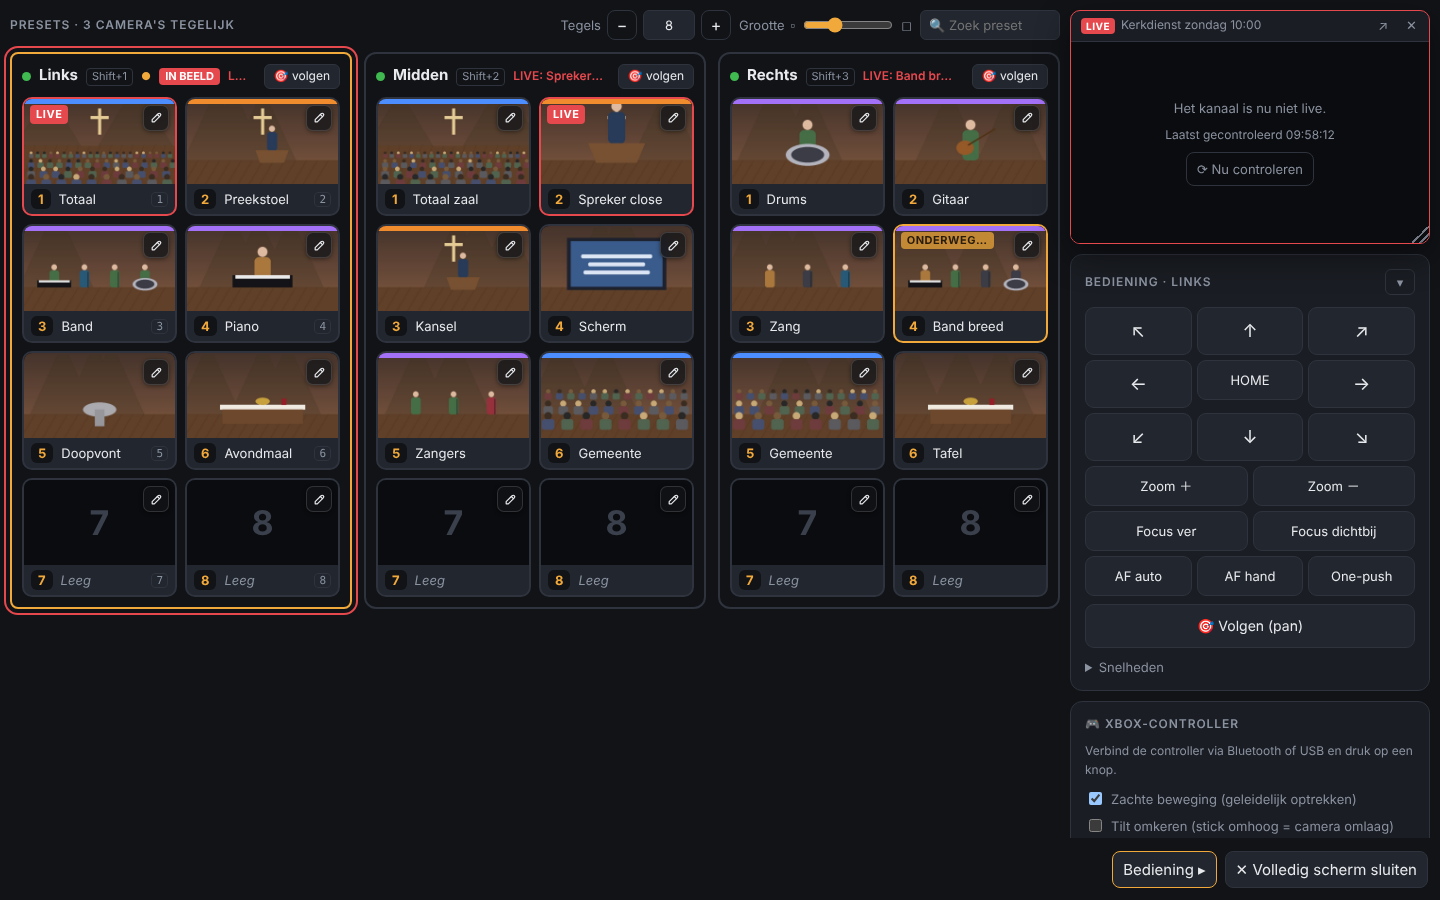
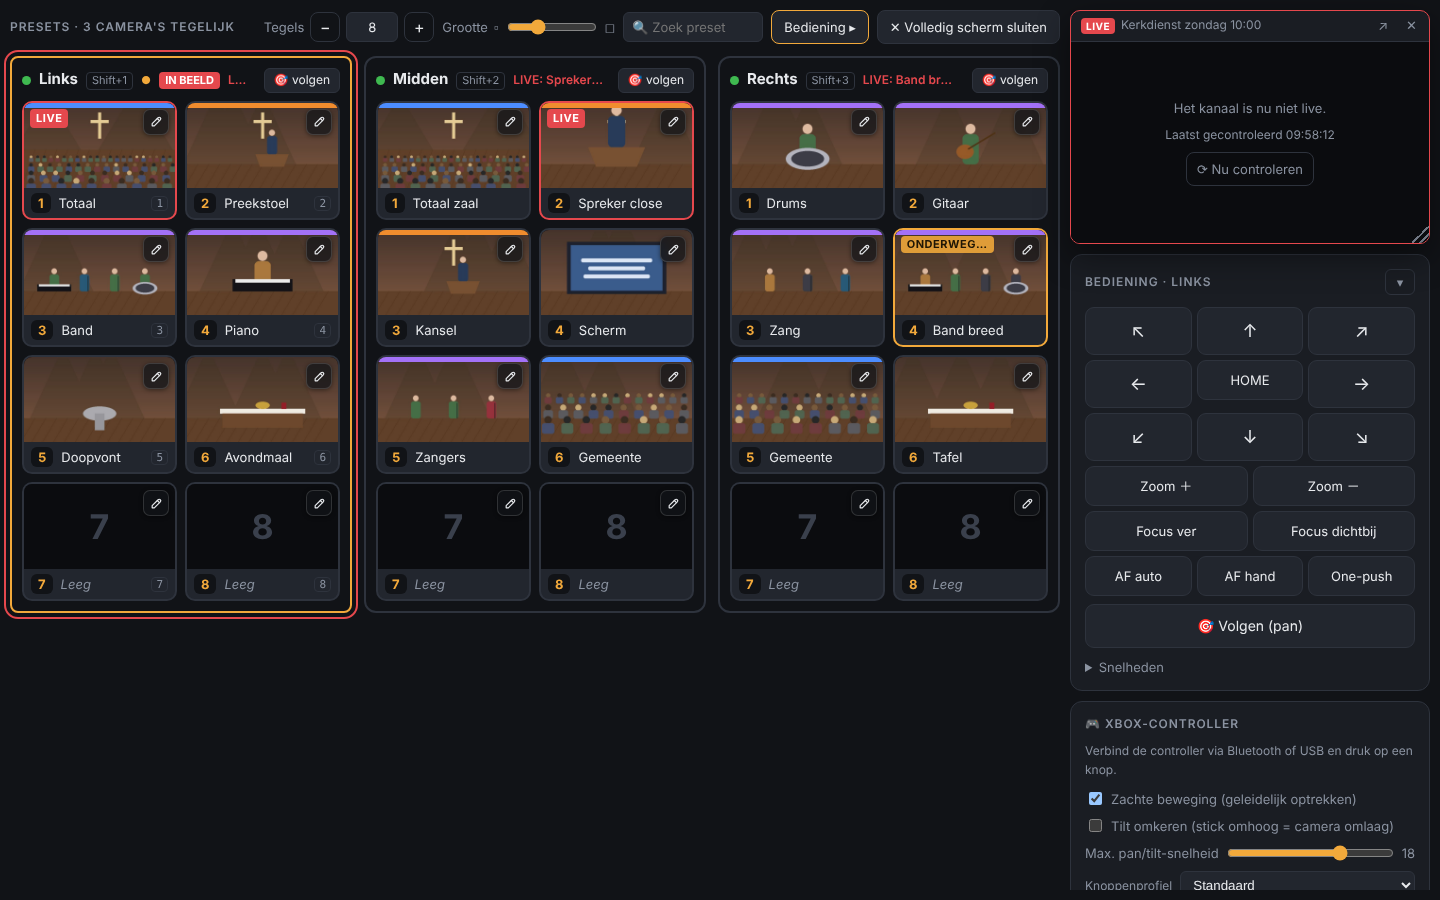
Volledig scherm: knoppen in de presetbalk i.p.v. zwevend rechtsonder
De knoppen ◂ Bediening en ✕ Volledig scherm sluiten stonden vast
rechtsonder (position: fixed) en vielen over een presettegel (bv.
preset 6). Ze staan nu rechtsboven in de presetbalk, in de flow, dus
nooit over een tegel. De uitgeklapte bediening loopt door tot onderaan.
Actieve Bediening-knop niet rood (rood = LIVE). README, CLAUDE.md,
screenshots en releasenotes v1.0.13 bijgewerkt.

Claude-Session: https://claude.ai/code/session_01UTh5KbM6Mer4r6g9EuNV9o

diff --git a/index.html b/index.html
@@ -361,13 +361,14 @@
   body.wall header, body.wall aside { display: none; }
   body.wall main { grid-template-columns: 1fr; padding: 10px; }
   body.wall #presetCard { border: 0; background: none; padding: 0; }
-  #wallBtns { display: none; position: fixed; bottom: 12px; right: 12px; z-index: 20; gap: 8px; }
+  /* knoppen staan in de presetbalk (niet zwevend rechtsonder), zodat ze nooit over een presettegel vallen */
+  #wallBtns { display: none; gap: 8px; }
   body.wall #wallBtns { display: flex; }
-  #wallBtns .icon { background: var(--panel2); color: var(--text); }
-  #btnWallSide.on { border-color: var(--accent); }
+  #wallBtns .chip { white-space: nowrap; }
+  #btnWallSide.on { background: var(--panel2); color: var(--text); border-color: var(--accent); }   /* niet rood: rood = LIVE */
   body.viewonly #btnWallSide { display: none; }
   /* volledig scherm + uitgeklapte bediening: zijbalk als kolom rechts, onder het YouTube-venster (als dat automatisch geplaatst is) */
-  body.wall.wallside aside { display: grid; position: fixed !important; right: 10px; top: var(--sidetop, 10px); bottom: 62px;
+  body.wall.wallside aside { display: grid; position: fixed !important; right: 10px; top: var(--sidetop, 10px); bottom: 10px;
     width: var(--sidew, 340px); grid-template-columns: minmax(0, 1fr) !important; align-content: start; gap: 10px;
     overflow-y: auto; overscroll-behavior: contain; z-index: 19; }
   body.wall.wallside main { padding-right: calc(var(--sidew, 340px) + 20px); }
@@ -585,6 +586,10 @@
         </div>
         <button class="chip" id="btnLoad" title="Presets die al in de camera's staan ophalen, met een foto per preset">📥 Laden van camera</button>
         <button class="chip" id="btnStore">＋ Preset opslaan</button>
+        <span id="wallBtns">
+          <button class="chip" id="btnWallSide" title="Camerabediening en Xbox-controller rechts tonen (toets B)">◂ Bediening</button>
+          <button class="chip" id="btnWallExit" title="Volledig scherm verlaten (Esc)">✕ Volledig scherm sluiten</button>
+        </span>
       </div>
     </div>
     <div class="hint" id="storeHint" hidden>Tik op een tegel om de huidige camerapositie daar op te slaan.</div>
@@ -873,10 +878,6 @@
   <div class="ytgrip" id="ytGrip" title="Sleep om de grootte te wijzigen"></div>
 </div>
 
-<div id="wallBtns">
-  <button class="icon" id="btnWallSide" title="Camerabediening en Xbox-controller rechts tonen (toets B)">◂ Bediening</button>
-  <button class="icon" id="btnWallExit" title="Volledig scherm verlaten (Esc)">✕ Volledig scherm sluiten</button>
-</div>
 <dialog id="dlgMidi">
   <h3>🎛 Videomixer (Roland V-1HD)</h3>
   <p class="small">Via een USB-kabel van de V-1HD naar deze computer ziet PTZ Control welke ingang op de mixer gekozen is (rode knop).

diff --git a/CLAUDE.md b/CLAUDE.md
@@ -60,7 +60,7 @@ Legenda: ✅ geverifieerd (getest of in officiële docs gevonden) · ⚠ aann
 - 🧑 **Alle sneltoetsen instelbaar** in **⌨ Sneltoetsen** (`#dlgKeys`, menu-item `btnKeys`), gedeeld via `cameras.json`: camera kiezen per camera (`cfg.cameras[i].hotkey`, standaard `Shift+Digit<n>`, n ≤ 9) en de bediening via **`cfg.keymap = {actie: combinatie}`** (alleen afwijkingen; `"none"` = uit). Acties en standaard in `KEY_ACTIONS`: `up/down/left/right` (pijltjes), `zoom_in/zoom_out` (Q/A), `focus_far/focus_near` (W/S), `stop` (Spatie), `home` (H), `track` (T), `wall` (F), `youtube` (Y), `songs` (L), `side` (B, bediening rechts op volledig scherm), `preset_1..9` (1–9). Combinatie = `KeyboardEvent.code` met `Ctrl+`/`Alt+`/`Shift+` (`comboOf`). Backspace = standaard, Delete = uit; dubbele toetsen worden rood gemarkeerd maar niet geblokkeerd. **Esc is vast**; Cmd-combinaties (`metaKey`) gaan altijd naar de browser. Vasthouden (bewegen/zoom/focus) loopt via `holding` (code → actie), zodat loslaten ook werkt als Shift al los is; Num 2/4/6/8 zonder NumLock tellen als pijltje (`combosOf`). De uitleg onder de zijbalk (`#keyHints`), het menu (Volledig scherm) en het YouTube-menu tonen de ingestelde toetsen (`renderKeyHints`). In *Alle camera's* kiest de camera-toets alleen de bediende camera (`selectCam`, origin `key`); in de enkele weergave wisselt hij van tabblad. ✅ Getest met Playwright (toets wijzigen, uitzetten, dubbel, opslaan, bediening met nieuwe toetsen).
 - 🧑 **Camerabediening inklapbaar** (klik op de titel; `localStorage.ctrlFolded`).
 - 🧑 **⛶ Volledig scherm** / toets F: `body.wall` verbergt kop en zijbalk, zet weergave op Alle camera's en vraagt browser-fullscreen. Esc / fullscreen verlaten → terug naar vorige weergave.
-- 🧑 **Bediening uitklappen op volledig scherm** (op verzoek, 10 nov 2026: "naast YouTube"): knop `#btnWallSide` (◂ Bediening / Bediening ▸) naast `#btnWallExit` in `#wallBtns` rechtsonder, toets **B** (`KEY_ACTIONS.side`, alleen op volledig scherm). `localStorage.wallSide` per apparaat (via `store`). `wallSideLayout()` zet `body.wallside`: de bestaande `aside` (camerabediening, Xbox-kaart, sneltoetsuitleg) wordt een vaste kolom rechts (`--sidew` = max(340, YouTube-breedte), 300 px – 40% scherm; `--sidetop`), `main` krijgt rechts ruimte. YouTube automatisch geplaatst + open → `ytPlace()` zet de speler bovenaan in die kolom (zelfde breedte) en de bediening eronder; *boven de camera's* (`ytWallTop`) → bediening onder de speler, rechts; zelf versleept → bediening vanaf boven (kan overlappen, eigen keuze). Niet in alleen-kijken. ✅ Getest (Playwright, 1440×900): knop en B, met/zonder YouTube, boven de camera's, geen overlap met tegels, onthouden na herladen, gewone zijbalk na sluiten.
+- 🧑 **Bediening uitklappen op volledig scherm** (op verzoek, 10 nov 2026: "naast YouTube"): knop `#btnWallSide` (◂ Bediening / Bediening ▸) naast `#btnWallExit` in `#wallBtns`. 🧑 `#wallBtns` staat **in de presetbalk** (rechtsboven, in de flow, niet `position: fixed`): zwevend rechtsonder viel hij over een presettegel (bv. preset 6); de uitgeklapte kolom loopt daardoor door tot `bottom: 10px`, toets **B** (`KEY_ACTIONS.side`, alleen op volledig scherm). `localStorage.wallSide` per apparaat (via `store`). `wallSideLayout()` zet `body.wallside`: de bestaande `aside` (camerabediening, Xbox-kaart, sneltoetsuitleg) wordt een vaste kolom rechts (`--sidew` = max(340, YouTube-breedte), 300 px – 40% scherm; `--sidetop`), `main` krijgt rechts ruimte. YouTube automatisch geplaatst + open → `ytPlace()` zet de speler bovenaan in die kolom (zelfde breedte) en de bediening eronder; *boven de camera's* (`ytWallTop`) → bediening onder de speler, rechts; zelf versleept → bediening vanaf boven (kan overlappen, eigen keuze). Niet in alleen-kijken. ✅ Getest (Playwright, 1440×900): knop en B, met/zonder YouTube, boven de camera's, geen overlap met tegels, onthouden na herladen, gewone zijbalk na sluiten.
 - 🧑 **Geen scènes** (meerdere camera's tegelijk naar een preset). Op verzoek verwijderd: camera's mogen niet tegelijk bewegen, omdat de regie eerst via de videomixer naar een ander shot schakelt en dan pas de camera die niet live is verplaatst. Niet opnieuw toevoegen zonder expliciete vraag. Een oude `scenes`-sectie in `cameras.json` wordt bij opslaan weggegooid, oude `scene*`-knoppen in `pad_map` worden genegeerd.
 
 ## 2d. Tijdens de dienst en presets ordenen (op verzoek, 10 nov 2026)

diff --git a/README.md b/README.md
@@ -60,8 +60,8 @@ Met 2 of meer camera's opent de app in **Alle camera's**: elke camera een kolom 
 Klik op de kopregel van een kolom, of druk **Shift+1/2/3**, om te kiezen welke camera je bedient; je blijft in *Alle camera's*. Daarna roept **1–9** die preset op die camera op. Snel wisselen gaat dus zo: **Shift+1, 4** (camera 1 → preset 4), **Shift+2, 1** (camera 2 → preset 1). Werkt ook in volledig scherm. De toets per camera is instelbaar via **Menu → ⌨ Sneltoetsen** (klik in het veld en druk bijv. F1 of Num 1; Backspace = terug naar Shift+N). Daar staat ook een overzicht van alle vaste toetsen. Een rood veld betekent dat de toets al in gebruik is.
 Met **Volg selectie** (rechtsboven) wisselen alle geopende schermen mee als ergens anders (of met de controller) een andere camera gekozen wordt.
 
-**⛶ Volledig scherm** (in het menu onder 🎮 rechtsboven, of toets **F**) toont alle camera's over het hele scherm, zonder kopbalk en zijbalk; presets blijven klikbaar en de controller werkt gewoon. Sluiten met **Esc** of de knop rechtsonder.
-Met **◂ Bediening** rechtsonder (of toets **B**) klap je op volledig scherm rechts de **camerabediening en de Xbox-controller** uit. Staat het YouTube-venster open, dan staat de speler bovenaan in die kolom en de bediening er direct onder; de tegels schuiven op, er wordt niets afgedekt. Nog een keer klikken (**Bediening ▸**) klapt hem weer in. Elk scherm onthoudt of hij open stond.
+**⛶ Volledig scherm** (in het menu onder 🎮 rechtsboven, of toets **F**) toont alle camera's over het hele scherm, zonder kopbalk en zijbalk; presets blijven klikbaar en de controller werkt gewoon. Sluiten met **Esc** of de knop **✕ Volledig scherm sluiten** rechtsboven in de presetbalk (die knoppen staan nooit over een tegel).
+Met **◂ Bediening** rechtsboven in de presetbalk (of toets **B**) klap je op volledig scherm rechts de **camerabediening en de Xbox-controller** uit. Staat het YouTube-venster open, dan staat de speler bovenaan in die kolom en de bediening er direct onder; de tegels schuiven op, er wordt niets afgedekt. Nog een keer klikken (**Bediening ▸**) klapt hem weer in. Elk scherm onthoudt of hij open stond.
 De **camerabediening** in de zijbalk klap je in en uit door op de titel te klikken; dat wordt per apparaat onthouden.
 
 ![Volledig scherm](docs/screenshots/volledig-scherm.png)

diff --git a/docs/releasenotes/v1.0.13.md b/docs/releasenotes/v1.0.13.md
@@ -1,0 +1,4 @@
+## Nieuw in deze versie
+- Volledig scherm: de knoppen **◂ Bediening** en **✕ Volledig scherm sluiten** staan nu rechtsboven in de presetbalk en vallen niet meer over een presettegel
+- Volledig scherm: camerabediening en Xbox-controller rechts uitklappen naast YouTube (knop ◂ Bediening of toets B)
+- Uitgeklapte bediening loopt nu door tot de onderkant van het scherm
